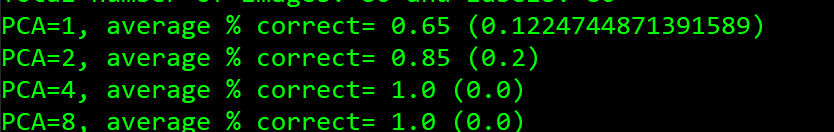
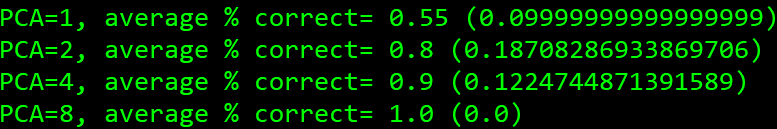
final graphs

diff --git a/154hw1_part2.py b/154hw1_part2.py
@@ -12,7 +12,7 @@ k_pcas = None
 if not test_single:
     test_learning_rates = input("Testing learning rates?(y/n): ").lower()
     test_learning_rates = test_learning_rates == 'y' or test_learning_rates == 'yes'
-    learning_rates = [.001, .8, 10] if test_learning_rates else [.01, .05, .8, .5]
+    learning_rates = [.001, .1, 4] if test_learning_rates else [.01, .02, .03, .1]
     k_pcas = 8 if test_learning_rates else [1,2,4,8]
 else:
     learning_rates = .5
@@ -33,7 +33,7 @@ def append_one(image_set):
     return image_set
 
 def logistic_reg(w, x):
-    return 1/(1+pow(np.e, -1 * (w.T.dot(x[0]))))
+    return 1/(1+np.exp(-1 * (w.T.dot(x[0]))))
 
 def correct_category(w, x, t):
     output = logistic_reg(w, x)
@@ -59,41 +59,48 @@ def batch_gradient_descent(epochs, learning_rate, dim_input):
     param: dim_input: dimension of input
     """
     w = np.zeros(dim_input)
-    current_error = calc_error(w, holdout_set)
+    best_w = w
+    best_error = calc_error(w, holdout_set)
+    holdout_errors[0].append(best_error)
+    train_errors[0].append(calc_error(best_w, train_set))
     for e in range(epochs):
         r = (learning_rate * sum([gradient((1 if c1 in label else 0),image,w) for image, label in train_set]))
         v = w + r
         new_error = calc_error(v, holdout_set)
-        if new_error < current_error:
-            w = v
-            current_error = new_error
-        if (e+1)%2 == 0:
-            holdout_errors[e//2].append(current_error)
-            train_errors[e//2].append(calc_error(w, train_set))
+        if new_error < best_error:
+            best_w = v
+            best_error = new_error
+        w = v
+        holdout_errors[e+1].append(new_error)
+        train_errors[e+1].append(calc_error(w, train_set))
 
-    return w
+    return best_w
 
 def single_test(data):
     global train_errors
     global holdout_errors
     fig, ax_list = plt.subplots(nrows=1, ncols=1, figsize=(15,6), sharex=True)
-    fig.suptitle("Average Training Errors", y=1)
+    fig.suptitle("Average Holdout and Training Errors", y=1)
     fig.tight_layout()
     fig.subplots_adjust(top=.85, wspace=.3)
 
-    train_errors = [[],[],[],[],[]]
-    holdout_errors = [[],[],[],[],[]]
+    train_errors = [[],[],[],[],[],[],[],[],[],[],[]]
+    holdout_errors = [[],[],[],[],[],[],[],[],[],[],[]]
     percent_correct = []
 
     percent_correct = train_model(data, k_pcas, learning_rates, random=False)
 
     train_mean, train_std = (list(map(np.mean, train_errors)), list(map(np.std, train_errors)))
+    holdout_mean, holdout_std = (list(map(np.mean, holdout_errors)), list(map(np.std, holdout_errors)))
 
     graph = ax_list
     graph.set_title("Learning Rate: " + str(learning_rates))
     graph.set_ylabel("Cross Entropy Loss")
     graph.set_xlabel("# of Epochs")
-    graph.errorbar([2,4,6,8,10], train_mean, train_std, linestyle='-', color='red', marker='o',)
+    graph.errorbar(list(range(11)), holdout_mean, holdout_std, linestyle='-', color='red', marker='o', label="holdout")
+    graph.errorbar(list(range(11)), train_mean, train_std, linestyle='-', color='blue', marker='o', label="train")
+    graph.fill_between(list(range(11)), np.asarray(holdout_mean) + np.asarray(holdout_std), np.asarray(holdout_mean) - np.asarray(holdout_std), facecolor='r',alpha=0.5)
+    graph.fill_between(list(range(11)), np.asarray(train_mean) + np.asarray(train_std), np.asarray(train_mean) - np.asarray(train_std), facecolor='b',alpha=0.5)
     mean = np.mean(percent_correct)
     std_dev = np.std(percent_correct)
     print("PCA={}, average % correct= {} ({})".format(k_pcas, mean, std_dev))
@@ -103,23 +110,34 @@ def learning_rate_test(data):
     global train_errors
     global holdout_errors
     fig, ax_list = plt.subplots(nrows=1, ncols=3, figsize=(15,6), sharex=True)
-    fig.suptitle("Average Training Errors", y=1)
+    fig.suptitle("Average Holdout and Training Errors", y=1)
     fig.tight_layout()
     fig.subplots_adjust(top=.85, wspace=.3)
+    percent_correct = []
     for lr in learning_rates:
-        train_errors = [[],[],[],[],[]]
-        holdout_errors = [[],[],[],[],[]]
+        train_errors = [[],[],[],[],[],[],[],[],[],[],[]]
+        holdout_errors = [[],[],[],[],[],[],[],[],[],[],[]]
 
-        train_model(data, k_pcas, lr, random=False)
+        pc = train_model(data, k_pcas, lr, random=False)
 
+        percent_correct.append(pc)
         train_mean, train_std = (list(map(np.mean, train_errors)), list(map(np.std, train_errors)))
+        holdout_mean, holdout_std = (list(map(np.mean, holdout_errors)), list(map(np.std, holdout_errors)))
+
         graph = ax_list[learning_rates.index(lr)]
         graph.set_title("Learning Rate: " + str(lr))
         graph.set_ylabel("Cross Entropy Loss")
         graph.set_xlabel("# of Epochs")
-        graph.errorbar([2,4,6,8,10], train_mean, train_std, linestyle='-', color='red', marker='o',)
+        graph.errorbar(list(range(11)), holdout_mean, holdout_std, linestyle='-', color='red', marker='o', label="holdout")
+        graph.errorbar(list(range(11)), train_mean, train_std, linestyle='-', color='blue', marker='o', label="train")
+        graph.fill_between(list(range(11)), np.asarray(holdout_mean) + np.asarray(holdout_std), np.asarray(holdout_mean) - np.asarray(holdout_std), facecolor='r',alpha=0.5)
+        graph.fill_between(list(range(11)), np.asarray(train_mean) + np.asarray(train_std), np.asarray(train_mean) - np.asarray(train_std), facecolor='b',alpha=0.5)
 
     plt.savefig("lr_test.png", bbox_inches='tight')
+    for correctness_list, i in zip(percent_correct, range(3)):
+        mean = np.mean(correctness_list)
+        std_dev = np.std(correctness_list)
+        print("Learning Rate={}, average % correct= {} ({})".format(learning_rates[i], mean, std_dev))
 
 
 def pca_test(data):
@@ -131,8 +149,8 @@ def pca_test(data):
     fig.subplots_adjust(top=.85, wspace=.3)
     percent_correct = []
     for k in k_pcas:
-        holdout_errors = [[],[],[],[],[]]
-        train_errors = [[],[],[],[],[]]
+        train_errors = [[],[],[],[],[],[],[],[],[],[],[]]
+        holdout_errors = [[],[],[],[],[],[],[],[],[],[],[]]
 
         pc = train_model(data, k, learning_rates[k_pcas.index(k)])
 
@@ -144,8 +162,10 @@ def pca_test(data):
         graph.set_title(str(k) + " Principle Components")
         graph.set_ylabel("Cross Entropy Loss")
         graph.set_xlabel("# of Epochs")
-        graph.errorbar([2,4,6,8,10], holdout_mean, holdout_std, linestyle='-', color='red', marker='o', label="holdout")
-        graph.errorbar([2,4,6,8,10], train_mean, train_std, linestyle='-', color='blue', marker='o', label="train")
+        graph.errorbar(list(range(11)), holdout_mean, holdout_std, linestyle='-', color='red', marker='o', label="holdout")
+        graph.errorbar(list(range(11)), train_mean, train_std, linestyle='-', color='blue', marker='o', label="train")
+        graph.fill_between(list(range(11)), np.asarray(holdout_mean) + np.asarray(holdout_std), np.asarray(holdout_mean) - np.asarray(holdout_std), facecolor='r',alpha=0.5)
+        graph.fill_between(list(range(11)), np.asarray(train_mean) + np.asarray(train_std), np.asarray(train_mean) - np.asarray(train_std), facecolor='b',alpha=0.5)
         graph.legend()
 
     plt.savefig("pca_test.png", bbox_inches='tight')
